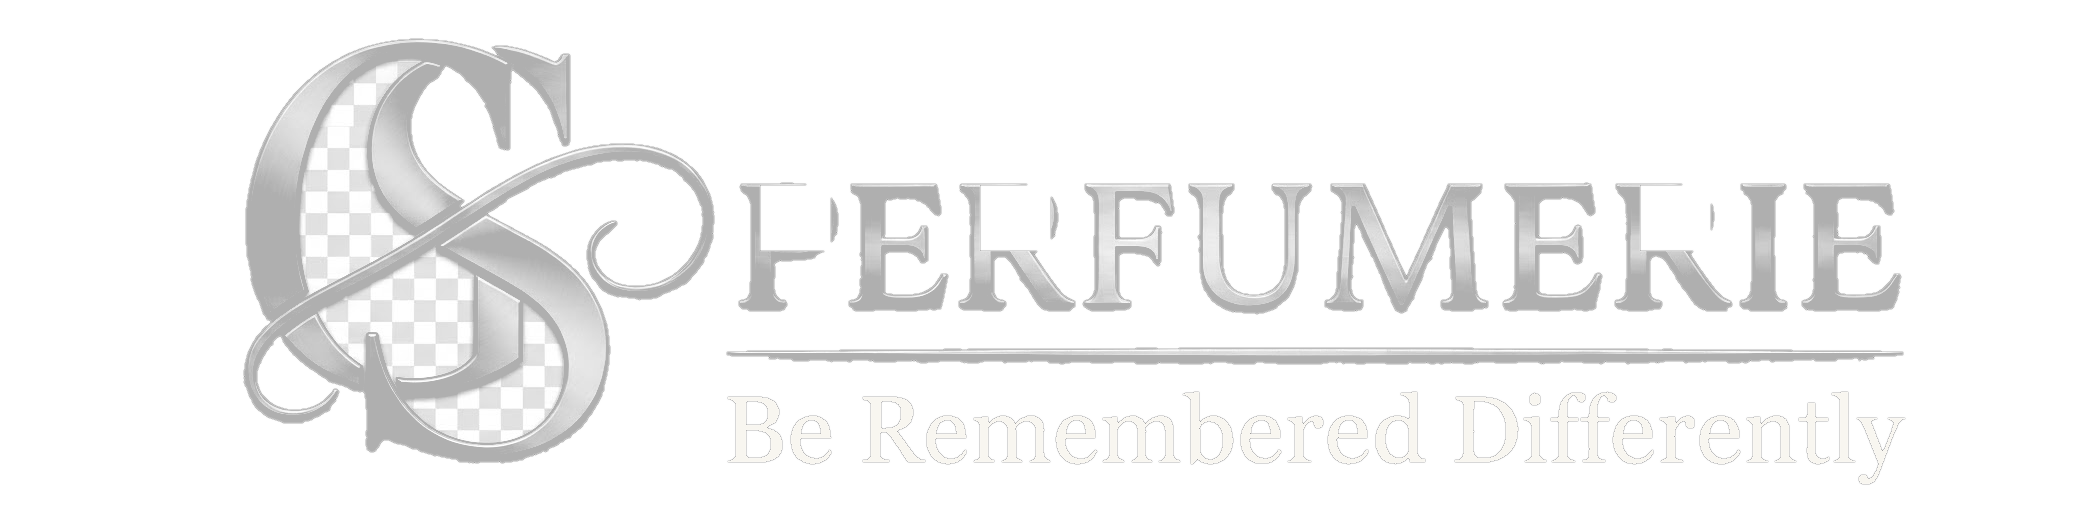
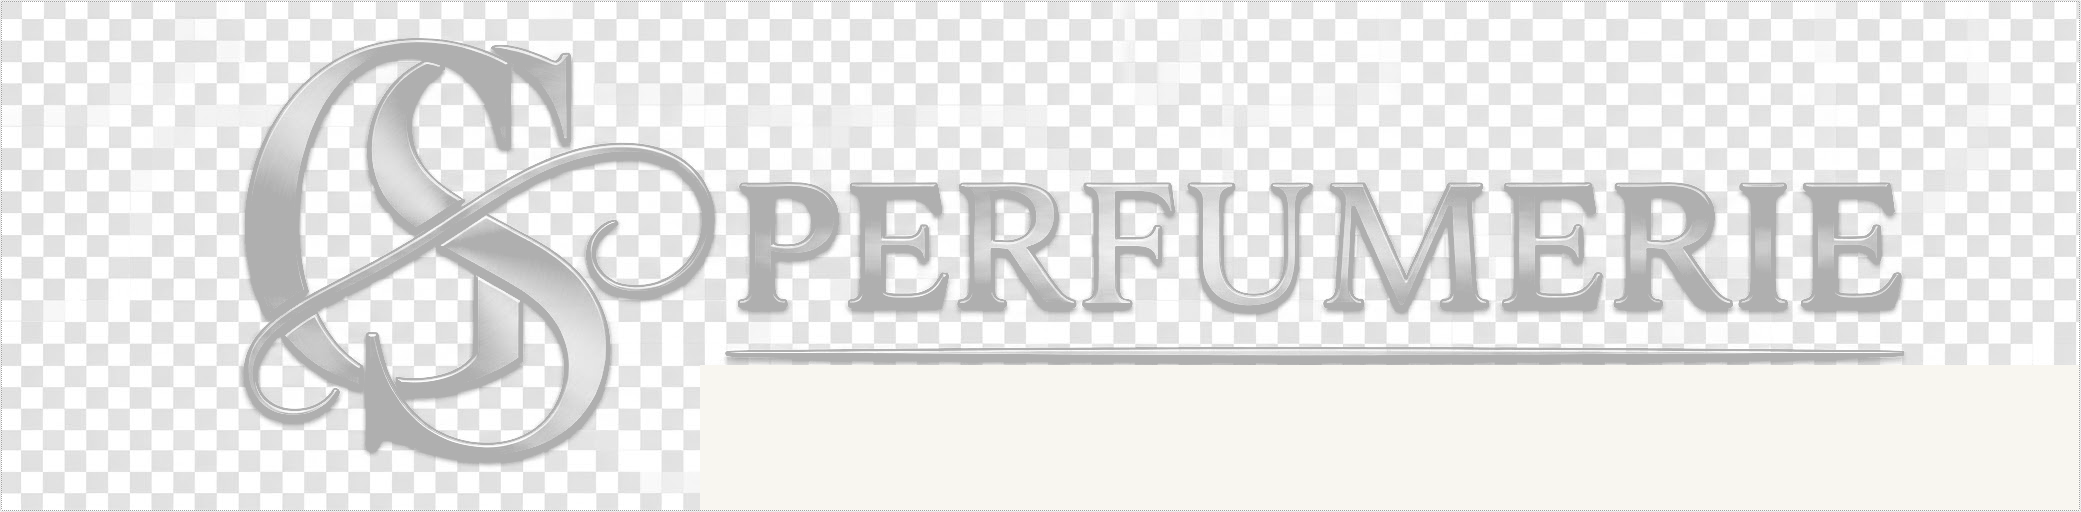
Fix v9 emblem: completely eliminate checkerboard holes inside letters and monogram, make 100% solid polished silver chrome fill, bust CDN cache

diff --git a/src/components/Hero.tsx b/src/components/Hero.tsx
@@ -2,7 +2,7 @@ import React from 'react';
 import { useStore } from '../context/StoreContext';
 import { Sparkles, ArrowRight, ShieldCheck, Compass, Droplet } from 'lucide-react';
 import heroPerfumeImg from '../assets/images/hero_luxury_perfume_1791027749457.jpg';
-import shahzeinLogoImg from '../assets/images/shahzein_luxury_emblem_v5.png';
+import shahzeinLogoImg from '../assets/images/shahzein_luxury_emblem_v9.png';
 
 export const Hero: React.FC = () => {
   const { setIsFinderOpen, fragrances, setSelectedFragrance } = useStore();

diff --git a/src/components/ShahzeinBrandLogo.tsx b/src/components/ShahzeinBrandLogo.tsx
@@ -1,5 +1,5 @@
 import React from 'react';
-import shahzeinLogoImg from '../assets/images/shahzein_luxury_emblem_v5.png';
+import shahzeinLogoImg from '../assets/images/shahzein_luxury_emblem_v9.png';
 
 interface ShahzeinBrandLogoProps {
   size?: 'sm' | 'md' | 'lg';
